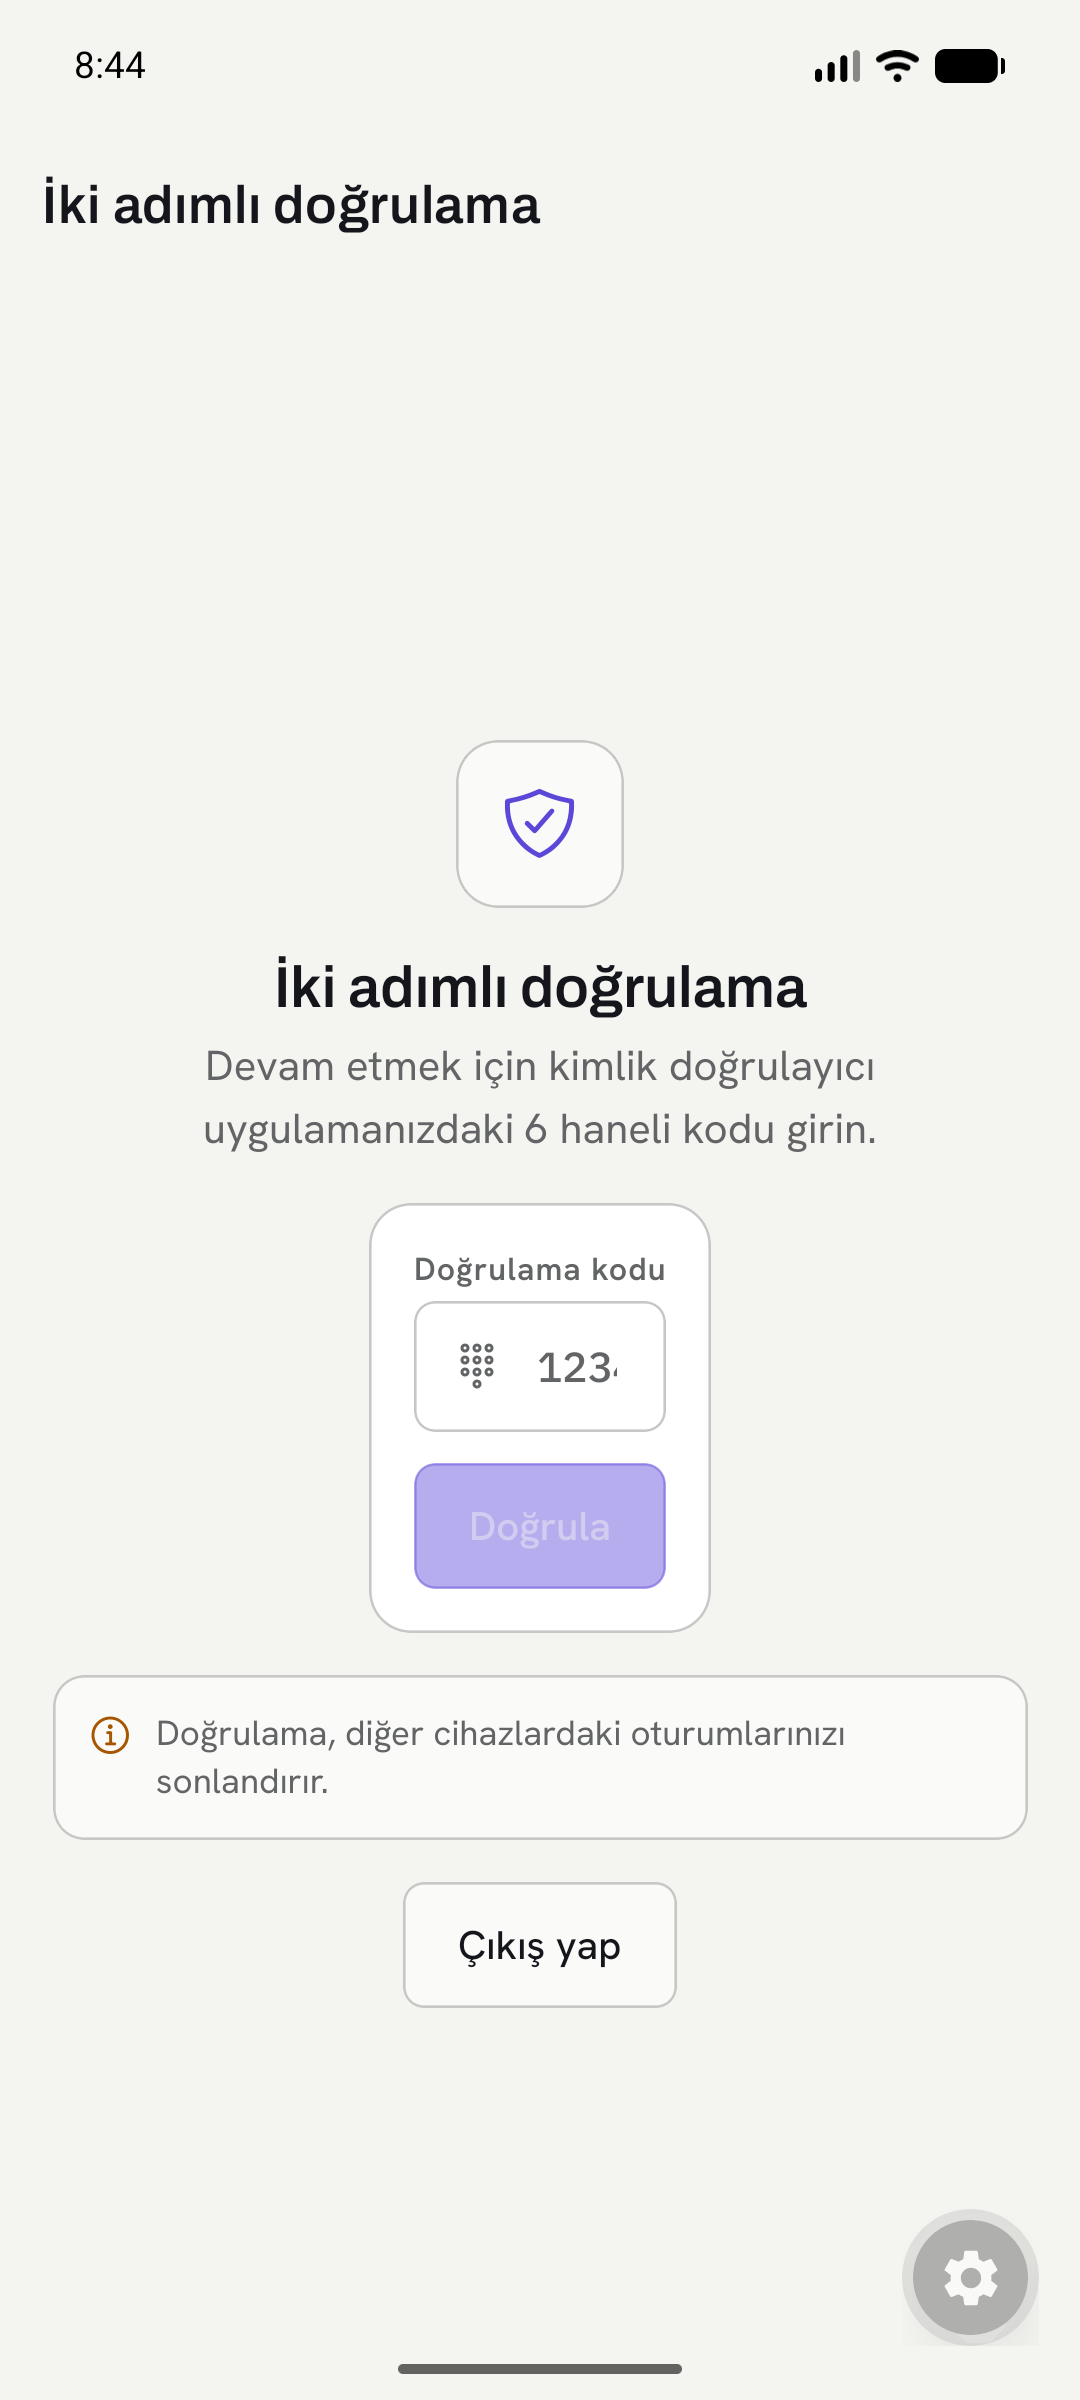
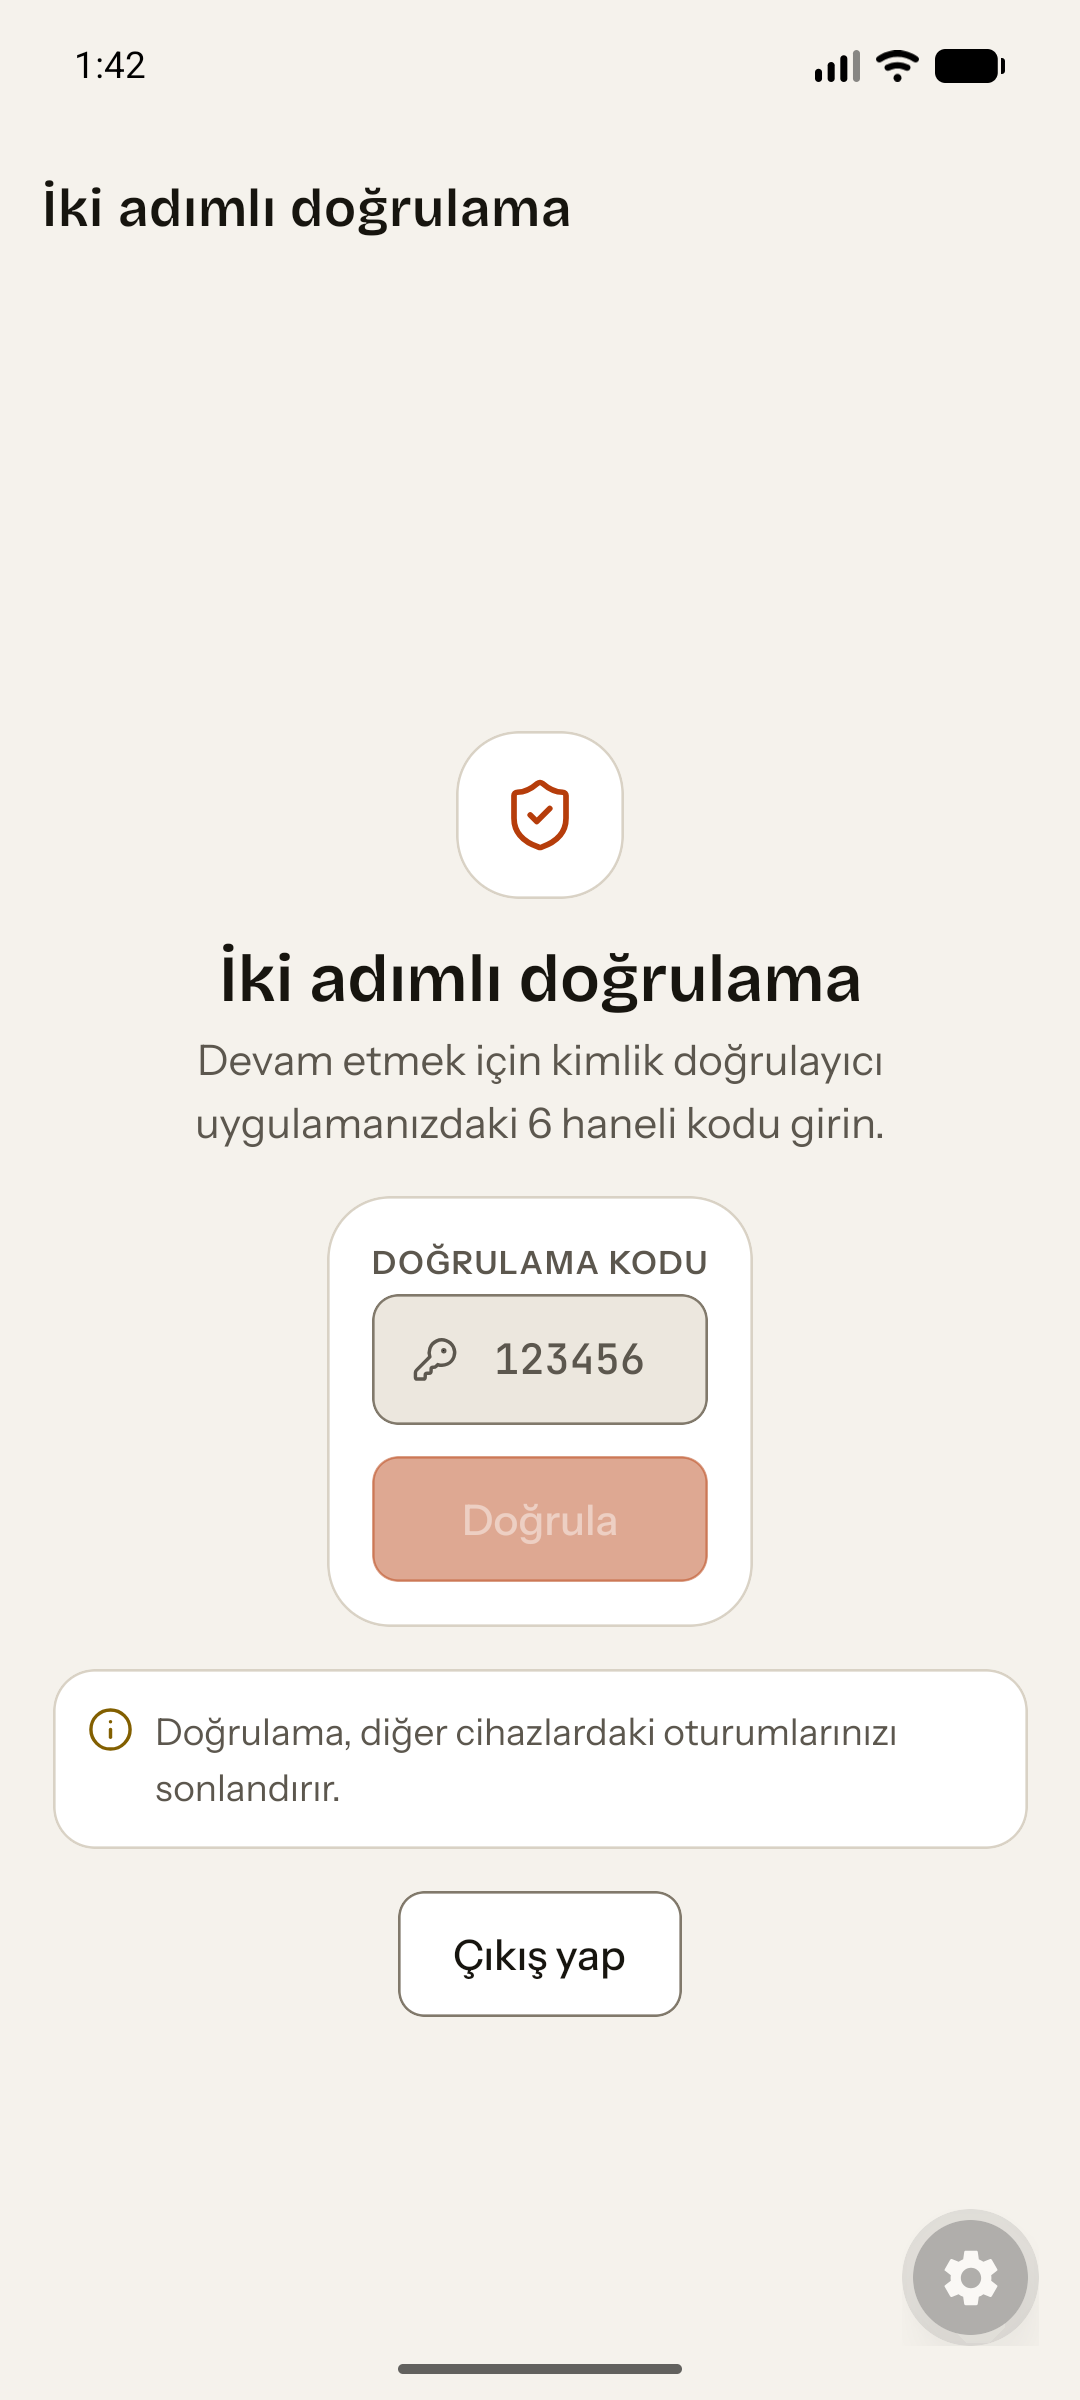
docs(readme): Kor & Kemik kimligiyle ekran goruntuleri ve marka bolumu

diff --git a/README.md b/README.md
@@ -1,3 +1,5 @@
+<p align="center"><img src="apps/web/public/brand/sarmal-logo.svg" width="216" alt="sarmal logo: a single-centre rising spiral beside the lowercase sarmal logotype"></p>
+
 # Sarmal
 
 An online one-on-one fitness coaching platform: a coach manages clients' training, nutrition and progress data, and every AI-generated plan has to pass an explicit coach approval before it becomes a client's active program.
@@ -17,6 +19,16 @@ An online one-on-one fitness coaching platform: a coach manages clients' trainin
 _Sarmal_ is Turkish for _spiral_, and it names the thing the product is actually about. The coaching loop closes — coach assigns a plan, client trains, a report comes back, the coach responds — but a loop that closed onto itself would just be a circle, and training that returns exactly where it started is not progress. Each completed turn should start the next one a level higher. That is a spiral.
 
 The product's signature UI element is a **ring**, and it stays one: the ring on screen is a single turn of that spiral. It is governed by a single-meaning rule — the ring encodes loop state and nothing else, and decorative use (avatar frames, button ornaments, background patterns) is forbidden. The rule is written down in [ADR-0017](docs/adr/0017-imza-oge-halka.md), which also lists the exact three places a ring is allowed to appear. There is no "spiral chart" anywhere in the UI, and adding one would break the same rule.
+
+## Brand identity
+
+The visual identity is called **Kor & Kemik** ("ember & bone"), recorded in [ADR-0031](docs/adr/0031-kor-ve-kemik-kurumsal-kimlik.md); it supersedes the earlier "Demir & Tebeşir" direction of ADR-0015 and its cool purple-and-grey panel look. The idea behind it is _"the spiral turns; the axis rises"_: progressive overload repeats the same loop, some turns deliberately curl inward (deload, rest, coming back from injury), and the long axis is still progress.
+
+- **Symbol and logotype.** A single-centre Archimedean spiral whose outer end leaves along its tangent as a straight arm — no arrowhead, no chart, stairs or arrow "growth" imagery. It ships in three optical sizes (48 / 24 / 16) that drop turns rather than thicken the stroke, next to a lowercase `sarmal` logotype. Assets: [`apps/web/public/brand/`](apps/web/public/brand/).
+- **Colour.** Warm neutrals only — no purple, no pure grey. Light theme on **Kemik** `#F5F2EC`, dark theme on **Gece** `#121110`, and **Kor** `#B63D0B` (light) / `#FF8A4C` (dark) as the single accent: primary action, active tab, progress ring, PR moment — at most one filled Kor element per screen. A teal _Su_ (`#0E6E78` / `#4CC3CF`) is the second data series.
+- **Type.** Bricolage Grotesque for display, headings and big numbers; Instrument Sans for interface text; JetBrains Mono for data (sets, reps, kg, tables). Turkish glyphs (İ ı Ş ş Ğ ğ Ç ç Ö ö Ü ü) are checked in the delivered font files.
+- **Shape and motion.** 4px grid, 10 / 16 / 24 / 999 radii, one restrained shadow, no glassmorphism or decorative gradients, Lucide icons on both platforms. Motion describes state changes; reward motion is reserved for logged sets and personal records, and reduced-motion preferences are honoured.
+- **Parity.** Web and mobile share one named token contract (`apps/web/src/design/tokens.ts` ↔ `apps/mobile/lib/palette.ts`), and contrast plus web–mobile palette equality are tested.
 
 ## What it is
 
@@ -133,8 +145,8 @@ flowchart TD
 ```
 
 <p align="center">
-  <img width="250" src="docs/screenshots/tur2-periodization.png" alt="Periodization screen: mesocycle overview with per-exercise %1RM target percentages and the deload week flagged">
-  <img width="250" src="docs/screenshots/tur2-offline-pending.png" alt="Airplane mode: two sets logged offline, queued behind a 'Senkron bekliyor (2)' badge">
+  <img width="250" src="docs/screenshots/tur2-periodization.png" alt="Periodization screen in the Kor &amp; Kemik identity: the 'Hipertrofi Bloğu 1' mesocycle with its week-6 deload flagged, above the weekly plan">
+  <img width="250" src="docs/screenshots/tur2-offline-pending.png" alt="Airplane mode: three sets in the session, the two logged offline queued behind a 'Senkron bekliyor (2)' badge">
   <img width="250" src="docs/screenshots/tur2-offline-synced.png" alt="Same screen after reconnecting: the sync queue flushed and the pending badge cleared">
 </p>
 
@@ -164,9 +176,9 @@ Full list and rationale: [`docs/mobile/sync-protocol.md`](docs/mobile/sync-proto
 
 ## Screenshots
 
-The frames are generated automatically against **demo accounts** on the local Supabase stack (`supabase/seed.sql` — coach `coach@example.com`, client `client2@example.com`): [`scripts/capture-screenshots.mjs`](scripts/capture-screenshots.mjs) signs in with Playwright, raises the coach session to `aal2` with a real TOTP code, and writes a fixed 1440×900 desktop frame (scaled to 0.75 for file size, 1080×675 PNG) into `docs/screenshots/`. The script is **not** a test and is not wired into CI — it is run by hand when the UI changes (`node scripts/capture-screenshots.mjs [--only=<frame>]`). Every name, e-mail and measurement visible is seed data; no real personal data is involved. The UI is in Turkish.
+The frames are generated automatically against **demo accounts** on the local Supabase stack (`supabase/seed.sql` — coach `coach@example.com`, client `client2@example.com`): [`scripts/capture-screenshots.mjs`](scripts/capture-screenshots.mjs) signs in with Playwright, raises the coach session to `aal2` with a real TOTP code, and writes a fixed 1440×900 desktop frame (scaled to 0.75 for file size, 1080×675 PNG) into `docs/screenshots/`. The script is **not** a test and is not wired into CI — it is run by hand when the UI changes (`node scripts/capture-screenshots.mjs [--only=<frame>]`). Every name, e-mail and measurement visible is seed data; no real personal data is involved. The UI is in Turkish, and every frame shows the current Kor & Kemik identity (light theme; see [Brand identity](#brand-identity)).
 
-![Coach panel showing the selected client's summary: macro intake over the last 14 days and a day-level activity summary](docs/screenshots/coach-panel.png)
+![Coach panel showing the selected client's summary: 90-day weight trend, macro intake over the last 14 days and a day-level activity summary](docs/screenshots/coach-panel.png)
 
 **The coach's view stops at day precision.** The summary shows a date and how many tab views / sign-ins happened that day, with **no hour or minute stamp anywhere** — that limit comes from the `coach_activity_summary()` RPC signature, not from what this page chose to render. Opening the page at all requires an `aal2` coach session; an `aal1` coach sees the same layout filled with empty data.
 
@@ -632,7 +644,7 @@ apps/
     src/components/activity/  ActivityConsent, ClientActivityLog, CoachActivitySummary
     src/components/progress/  ProgressPhotos, BeforeAfterSlider
     src/components/workout/   GymMode
-    src/design/tokens.ts      light/dark design tokens (ADR-0015)
+    src/design/tokens.ts      light/dark design tokens (ADR-0031)
     src/lib/                  supabase/, api/ (proxy, rate limit, quota), security/,
                               logger.ts (pino branch), notifier.ts
     src/env.{shared,server}.ts  zod env validation + the hosted target guard
